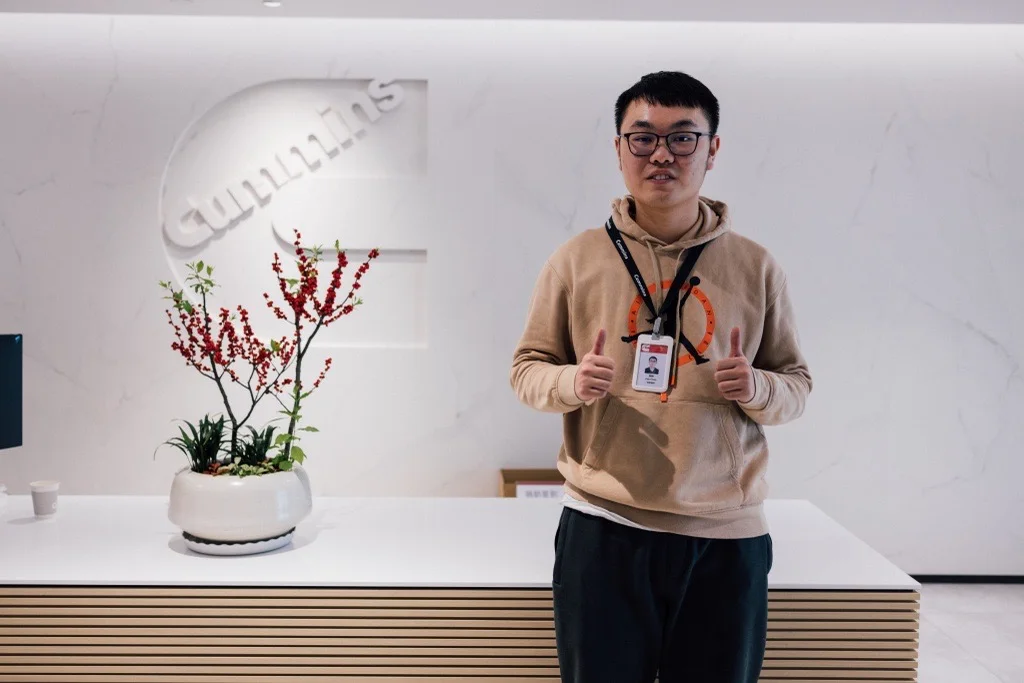
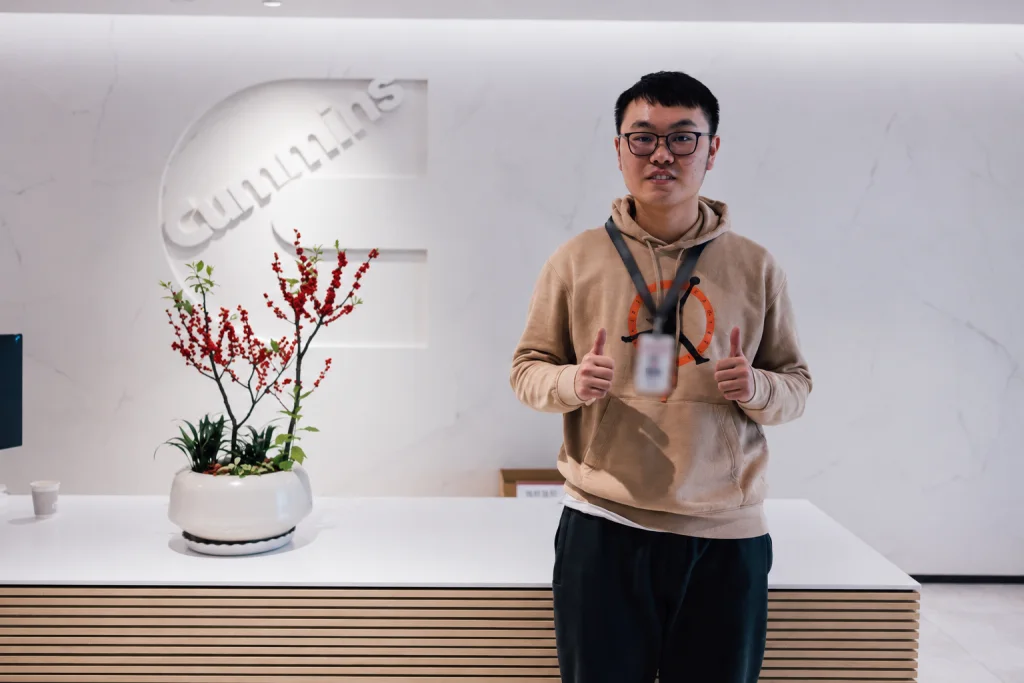
fix: redact internship photo details

diff --git a/content.js b/content.js
@@ -43,12 +43,12 @@ const CONTENT = {
       {src:'assets/internships/cummins-us-dinner-1600.webp',thumbnail:'assets/internships/cummins-us-dinner-800.webp',width:1600,height:1200,thumbnailWidth:800,alt:['Charleston intern cohort at a group dinner','查尔斯顿实习生同届成员聚餐合影'],caption:['A dinner with the Charleston intern cohort.','与查尔斯顿实习生同届成员聚餐。']}
     ]},
     {id:'accenture',region:'remote',roleKey:'ai-technology',company:['Accenture Co., Ltd.','埃森哲有限公司'],place:['Remote','远程'],role:['AI Technology Intern','人工智能技术实习生'],team:['Remote AI Project Team','线上 AI 项目团队'],date:['Jul 2024 – Aug 2024','2024年7月 – 2024年8月'],excerpt:['Two applied machine-learning studies completed in a remote internship: review sentiment classification and hourly store-sales forecasting, with an emphasis on feature engineering and model comparison.','在线上实习中完成两项应用型机器学习研究：评论情感分类与门店小时级销量预测，重点实践特征工程与模型比较。'],tech:'Python · pandas · scikit-learn · TF-IDF · Word2Vec · XGBoost · Prophet · LSTM · Jupyter',summary:['During a four-week remote internship, I moved from machine-learning foundations into two end-to-end notebook studies. I built a review sentiment classifier, then an hourly store-sales forecasting workflow, documenting how preprocessing choices, feature design, evaluation scope, and mentor feedback changed each result.','在四周线上实习中，我从机器学习基础练习逐步进入两个端到端 Notebook 项目：先完成评论情感分类，再构建门店小时级销量预测流程，并记录数据预处理、特征设计、评估范围与导师反馈如何影响结果。'],background:['The internship followed a weekly remote cycle of goals, independent notebook work, mentor review, and written reflection. After an initial week covering classification, clustering, and regression with scikit-learn datasets, the remaining weeks focused on two consulting-style exercises: define the target, prepare the data, compare model families, and explain what the evidence did and did not support.','实习采用按周推进的线上节奏：明确目标、独立完成 Notebook、接受导师评审，再进行书面复盘。第一周使用 scikit-learn 数据集练习分类、聚类与回归；后三周集中在两个咨询式练习上：定义目标、准备数据、比较模型，并说明证据能够支持什么、不能支持什么。'],highlights:[
-      ['Feature engineering changed the sentiment result more than swapping text models alone: adding structured review context raised the saved notebook results from the high-60% range to the mid-80% range.','在情感分类中，相比只更换文本模型，特征工程带来的变化更明显：加入结构化评论信息后，Notebook 中记录的结果由约 60% 后段提升到 80% 中段。'],
+      ['Feature engineering changed the sentiment result more than swapping text models alone: adding structured review context produced the strongest saved notebook comparison.','在情感分类中，相比只更换文本模型，特征工程带来的变化更明显：加入结构化评论信息后取得了 Notebook 中最好的对比结果。'],
       ['A mistaken grouping choice in the sales task caused rework. I learned to confirm the prediction unit, grouping key, and target horizon before building features.','销量任务中一次错误的分组选择造成返工；我由此学会在特征构建前先确认预测单元、分组键与目标时间范围。'],
       ['Evaluation numbers need context. The final hourly sales check contained only one held-out record per store, so it is presented as a notebook comparison rather than a production benchmark.','评估数字必须附带范围说明。销量任务最终仅对每个门店保留一条小时记录，因此这里只把它作为 Notebook 内部比较，而不是生产级基准。'],
       ['Keeping preprocessing, features, models, metrics, and reflections in reproducible notebooks made mentor review and weekly handover more concrete.','将预处理、特征、模型、指标与复盘保存在可复现 Notebook 中，让导师评审与每周交接更具体。']
     ],work:[
-      {label:['Week 2 · Classification','第 2 周 · 分类'],title:['Review sentiment classification','评论情感分类'],body:['Built a three-class sentiment workflow for customer reviews, comparing text representations and classifiers before adding structured review attributes as contextual features.','围绕用户评论构建三分类情感分析流程，先比较文本表示与分类器，再加入结构化评论属性作为上下文特征。'],challenge:['The dataset contained review text, star ratings, and service-related attributes, but no ready-to-use sentiment target. The task required a reproducible label definition, careful text preparation, and evaluation that exposed class-level differences instead of relying on one headline score.','数据包含评论文本、星级与服务相关属性，但没有可直接使用的情感标签。任务需要建立可复现的标签定义、完成文本预处理，并通过能呈现各类别差异的评估方式，而不是只依赖单一总分。'],role:['I implemented the complete notebook workflow: data inspection, label construction, text cleaning, vectorization, feature encoding, train-test preparation, model comparison, and evaluation.','我负责完整 Notebook 流程，包括数据检查、标签构建、文本清洗、向量化、特征编码、训练测试准备、模型比较与评估。'],contributions:[['Clustered the star-rating signal into three groups and mapped them to good, neutral, and bad sentiment labels.','将星级信号聚为三组，并映射为正向、中性与负向情感标签。'],['Built TF-IDF and Word2Vec representations, then encoded rating, taste, environment, service, time, and comment-length attributes as additional features.','构建 TF-IDF 与 Word2Vec 表示，并将星级、口味、环境、服务、时间和评论长度等属性编码为附加特征。'],['Compared KNN, XGBoost, logistic regression, and a stacking classifier using held-out reports, confusion matrices, and cross-validation.','使用留出集分类报告、混淆矩阵与交叉验证，比较 KNN、XGBoost、逻辑回归及 Stacking 分类器。']],validation:['The saved notebook recorded both held-out and five-fold cross-validation results. XGBoost with the combined feature set reached 85.8% held-out accuracy and 84.8% mean cross-validation accuracy; logistic regression with the same feature set recorded 85.5% mean cross-validation accuracy.','保存的 Notebook 同时记录留出集与五折交叉验证结果。组合特征的 XGBoost 留出集准确率为 85.8%，平均交叉验证准确率为 84.8%；相同特征下的逻辑回归平均交叉验证准确率为 85.5%。'],outcome:['The comparison showed that review context materially improved this exercise over text-only representations. More importantly, it made feature design and class-level error analysis part of the model-selection decision.','比较结果表明，在这项练习中，评论上下文信息相较纯文本表示带来了明显提升；更重要的是，特征设计与类别级错误分析成为模型选择的一部分。']},
+      {label:['Week 2 · Classification','第 2 周 · 分类'],title:['Review sentiment classification','评论情感分类'],body:['Built a three-class sentiment workflow for customer reviews, comparing text representations and classifiers before adding structured review attributes as contextual features.','围绕用户评论构建三分类情感分析流程，先比较文本表示与分类器，再加入结构化评论属性作为上下文特征。'],challenge:['The dataset contained review text, star ratings, and service-related attributes, but no ready-to-use sentiment target. The task required a reproducible label definition, careful text preparation, and evaluation that exposed class-level differences instead of relying on one headline score.','数据包含评论文本、星级与服务相关属性，但没有可直接使用的情感标签。任务需要建立可复现的标签定义、完成文本预处理，并通过能呈现各类别差异的评估方式，而不是只依赖单一总分。'],role:['I implemented the complete notebook workflow: data inspection, label construction, text cleaning, vectorization, feature encoding, train-test preparation, model comparison, and evaluation.','我负责完整 Notebook 流程，包括数据检查、标签构建、文本清洗、向量化、特征编码、训练测试准备、模型比较与评估。'],contributions:[['Clustered the star-rating signal into three groups and mapped them to good, neutral, and bad sentiment labels.','将星级信号聚为三组，并映射为正向、中性与负向情感标签。'],['Built TF-IDF and Word2Vec representations, then encoded rating, taste, environment, service, time, and comment-length attributes as additional features.','构建 TF-IDF 与 Word2Vec 表示，并将星级、口味、环境、服务、时间和评论长度等属性编码为附加特征。'],['Compared KNN, XGBoost, logistic regression, and a stacking classifier using held-out reports, confusion matrices, and cross-validation.','使用留出集分类报告、混淆矩阵与交叉验证，比较 KNN、XGBoost、逻辑回归及 Stacking 分类器。']],validation:['The saved notebook recorded held-out reports and five-fold cross-validation for each model family. The combined feature set produced the strongest comparison, while class-level reports and confusion matrices kept the remaining errors visible.','保存的 Notebook 为各类模型记录留出集报告与五折交叉验证结果。组合特征集取得最好的对比结果，同时通过类别级报告与混淆矩阵保留对剩余误差的观察。'],outcome:['The comparison showed that review context materially improved this exercise over text-only representations. More importantly, it made feature design and class-level error analysis part of the model-selection decision.','比较结果表明，在这项练习中，评论上下文信息相较纯文本表示带来了明显提升；更重要的是，特征设计与类别级错误分析成为模型选择的一部分。']},
       {label:['Weeks 3–4 · Regression','第 3–4 周 · 回归'],title:['Hourly store-sales forecasting','门店小时级销量预测'],body:['Prepared hourly records for three stores and compared XGBoost, bagged XGBoost, Prophet, and LSTM approaches using lagged sales, order, price, rolling-window, and rank features.','为三个门店准备小时级记录，并基于销量、订单、单价的滞后特征、滑动窗口特征与排名特征，比较 XGBoost、Bagging XGBoost、Prophet 与 LSTM。'],challenge:['Predict the final hourly sales value for each store from the preceding hours while working with a very small grouped sample. An early misunderstanding about the grouping dimension required the data preparation to be rebuilt.','在分组样本很小的情况下，根据前序小时数据预测每个门店最后一个小时的销量。早期对分组维度的理解偏差导致数据准备需要重新构建。'],role:['I reorganized the source data at store-hour level, implemented the temporal feature pipeline, built the model comparisons, and documented the limitations of the final check.','我重新按门店与小时组织源数据，实现时序特征管道，完成多模型比较，并记录最终检查的范围限制。'],contributions:[['Confirmed the store-level prediction unit, grouped records by hour, and separated the final hourly observation of each store for comparison.','确认门店级预测单元，按小时聚合记录，并将每个门店最后一条小时记录留作比较。'],['Created sales rank, one-hour lag, and three-hour rolling mean, standard-deviation, minimum, and maximum features for sales, order count, and average unit price.','为销量、订单数量与平均单价构建销量排名、一小时滞后，以及三小时滑动均值、标准差、最小值与最大值特征。'],['Evaluated direct and bagged XGBoost, store-specific Prophet models with regressors, and an LSTM sequence prototype.','评估直接 XGBoost 与 Bagging XGBoost、带回归变量的门店级 Prophet，以及 LSTM 序列原型。']],validation:['The notebook compared predictions with one final hourly record from each of three stores. Direct XGBoost recorded RMSE 0.173 and MAE 0.163 on those three records, but the sample is too small to support a general accuracy claim.','Notebook 使用三个门店各一条最终小时记录进行预测比较。直接 XGBoost 在这三条记录上的 RMSE 为 0.173、MAE 为 0.163，但样本过小，不能据此主张模型具备普遍准确性。'],outcome:['The exercise produced a working feature-and-model comparison and exposed how strongly the result depended on grouping, feature construction, and evaluation design.','这项练习形成了可运行的特征与模型比较流程，也直观体现了分组方式、特征构建和评估设计对结果的影响。']}
     ],process:{kicker:['Internship process','实习过程'],heading:['From task brief to evidence-backed comparison','从任务说明到证据支持的比较'],intro:['Each week added one layer to the same working method: establish the learning baseline, define the modeling question precisely, build comparable experiments, then use review evidence to revise the next iteration.','每周工作都为同一方法增加一层：先建立学习基础，再准确界定建模问题，构建可比较实验，最后依据评审证据调整下一轮。'],stages:[
       {id:'build-foundations',label:['Foundations','基础'],title:['Rehearse the complete machine-learning loop','练习完整机器学习闭环'],body:['The first week used standard datasets to practise cleaning, scaling, classification, clustering, regression, tuning, and evaluation before moving into the internship datasets.','第一周使用标准数据集练习清洗、标准化、分类、聚类、回归、调参与评估，为后续实习数据任务做准备。'],contribution:['Implemented small scikit-learn notebooks and used the results to identify preprocessing and standardisation gaps.','完成多个 scikit-learn 小型 Notebook，并通过结果识别预处理与标准化方面的不足。'],findings:[['Evaluation begins with the data pipeline, not the estimator.','评估从数据管道开始，而不是从模型开始。'],['Scaling and missing-value handling changed otherwise simple baselines.','标准化与缺失值处理会改变看似简单的基线结果。']]},
